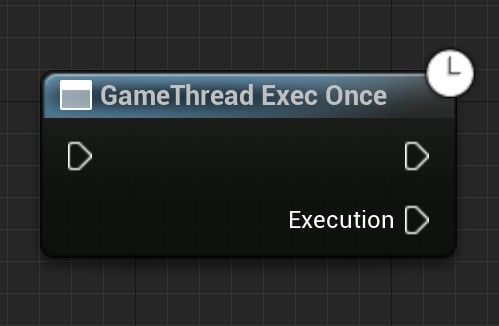
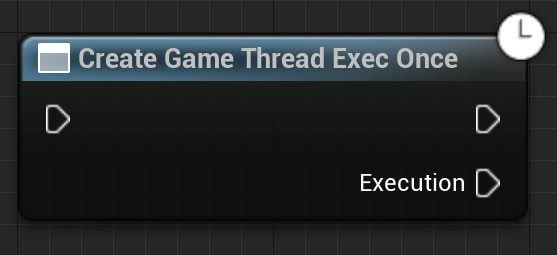
0.8pre

Changed region(s): [[0.0301, 0.0275, 0.992, 0.8784], [0.5711, 0.6314, 0.9018, 0.7961], [0.8116, 0.4118, 0.9018, 0.5216]]

diff --git a/docs/English Document/ThreadExecutionBlueprintNode_en.md b/docs/English Document/ThreadExecutionBlueprintNode_en.md
@@ -2,7 +2,12 @@
 sort: 2
 ---
 
-# ThreadExecutionBlueprintNode v0.7
+# ThreadExecutionBlueprintNode v0.8 pre
+
+- The 0.8 preview release is only intended as a preparation release for new features, with changes such as
+  - Fixes for some bugs in version 0.7.
+  - New features have been added, but these features are not stable for now. Only what is shown in this document is available. If you use features that are not included in the documentation, this plugin does not currently provide all support. Until a stable version 0.8 is released.
+  - Rename old nodes. Please check your blueprints and make replacements.
 
 ## Plugin Introduction
 

diff --git a/docs/Chinese Document/ThreadExecutionBlueprintNode_cn.md b/docs/Chinese Document/ThreadExecutionBlueprintNode_cn.md
@@ -2,7 +2,15 @@
 sort: 2
 ---
 
-# 线程执行蓝图节点 v0.7
+# 线程执行蓝图节点 v0.8 pre
+
+- 0.8预览版仅作为新增功能的准备版本，其变动项有：
+
+  - 对0.7版本的一些bug的修复。
+
+  - 新增新的功能，但这些功能暂时不稳定，请勿使用。仅该文档所展示的内容是可以用的。如果你使用了文档不包含的功能，本插件当前不提供一切支持。直到0.8稳定版本发布。
+
+  - 对旧的节点重命名。请检查你的蓝图，并进行替换。
 
 ## 插件简介
 
